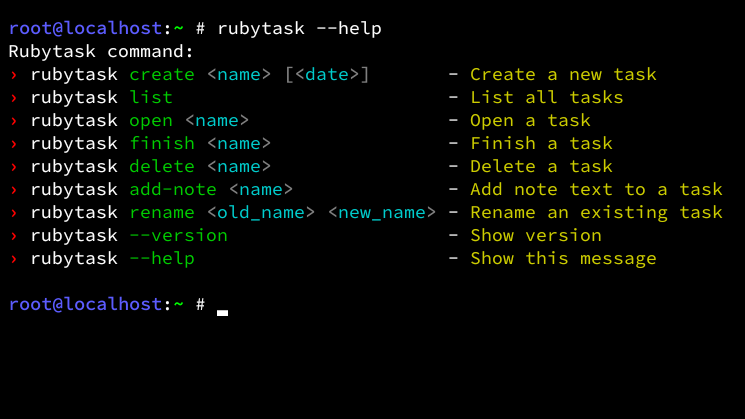
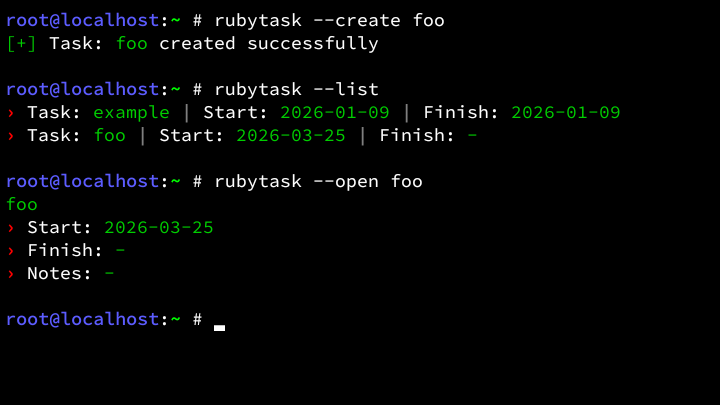
update: commands, preview, and install.sh

diff --git a/rubytask.rb b/rubytask.rb
@@ -19,60 +19,60 @@ FileUtils.mkdir_p(DATA_DIR)
 command = ARGV[0]
 
 case command
-    when 'create'
+    when '--create'
         name = ARGV[1]
         start_date = ARGV[2]
         if name
             Create.create_note(name, start_date)
         else
-            puts "#{R}[!] #{N}Usage: #{GG}#{Name} create #{DG}<#{CC}name#{DG}> [<#{CC}date#{DG}>]#{N}"
+            puts "#{R}[!] #{N}Usage: #{GG}#{Name} --create #{DG}<#{CC}name#{DG}> [<#{CC}date#{DG}>]#{N}"
         end
 
-    when 'list'
+    when '--list'
         List.list_notes
 
-    when 'open'
+    when '--open'
         name = ARGV[1]
         if name
             OpenNote.open_note(name)
         else
-            puts "#{R}[!] #{N}Usage: #{GG}#{Name} open #{DG}<#{CC}name#{DG}>#{N}"
+            puts "#{R}[!] #{N}Usage: #{GG}#{Name} --open #{DG}<#{CC}name#{DG}>#{N}"
         end
 
-    when 'finish'
+    when '--finish'
         name = ARGV[1]
         if name
             Finish.finish_note(name)
         else
-            puts "#{R}[!] #{N}Usage: #{GG}#{Name} finish #{DG}<#{CC}name#{DG}>#{N}"
+            puts "#{R}[!] #{N}Usage: #{GG}#{Name} --finish #{DG}<#{CC}name#{DG}>#{N}"
         end
 
-    when 'delete'
+    when '--delete'
         name = ARGV[1]
         if name
             Delete.delete_note(name)
         else
-            puts "#{R}[!] #{N}Usage: #{GG}#{Name} delete #{DG}<#{CC}name#{DG}>#{N}"
+            puts "#{R}[!] #{N}Usage: #{GG}#{Name} --delete #{DG}<#{CC}name#{DG}>#{N}"
         end
 
-    when 'add-note'
+    when '--add-note'
         name = ARGV[1]
         if name
             AddNote.add_note(name)
         else
-            puts "#{R}[!] #{N}Usage: #{GG}#{Name} add-note #{DG}<#{CC}name#{DG}>#{N}"
+            puts "#{R}[!] #{N}Usage: #{GG}#{Name} --add-note #{DG}<#{CC}name#{DG}>#{N}"
         end
 
-    when 'rename'
+    when '--rename'
         old_name = ARGV[1]
         new_name = ARGV[2]
         if old_name && new_name
             Rename.rename_note(old_name, new_name)
         else
-            puts "#{R}[!] #{N}Usage: #{GG}#{Name} rename #{DG}<#{CC}old_name#{DG}> <#{CC}new_name#{DG}>#{N}"
+            puts "#{R}[!] #{N}Usage: #{GG}#{Name} --rename #{DG}<#{CC}old_name#{DG}> <#{CC}new_name#{DG}>#{N}"
         end
 
-    when 'uwu'
+    when '--uwu'
         Uwu.run(5)
 
     when '--version'

diff --git a/utils/help.rb b/utils/help.rb
@@ -12,15 +12,15 @@ module Help
 
     def self.show_help
         puts "#{N}Rubytask command:"
-        puts "#{R}› #{N}#{Name} #{GG}create #{DG}<#{CC}name#{DG}> [<#{CC}date#{DG}>]       #{N}- #{YY}Create a new task#{N}"
-        puts "#{R}› #{N}#{Name} #{GG}list                         #{N}- #{YY}List all tasks#{N}"
-        puts "#{R}› #{N}#{Name} #{GG}open #{DG}<#{CC}name#{DG}>                  #{N}- #{YY}Open a task#{N}"
-        puts "#{R}› #{N}#{Name} #{GG}finish #{DG}<#{CC}name#{DG}>                #{N}- #{YY}Finish a task#{N}"
-        puts "#{R}› #{N}#{Name} #{GG}delete #{DG}<#{CC}name#{DG}>                #{N}- #{YY}Delete a task#{N}"
-        puts "#{R}› #{N}#{Name} #{GG}add-note #{DG}<#{CC}name#{DG}>              #{N}- #{YY}Add note text to a task#{N}"
-        puts "#{R}› #{N}#{Name} #{GG}rename #{DG}<#{CC}name#{DG}> <#{CC}new_name#{DG}>     #{N}- #{YY}Rename an existing task#{N}" 
-        puts "#{R}› #{N}#{Name} #{GG}--version                    #{N}- #{YY}Show version#{N}"
-        puts "#{R}› #{N}#{Name} #{GG}--help                       #{N}- #{YY}Show this message#{N}"
+        puts "    #{R}› #{N}#{Name} #{GG}--create #{DG}<#{CC}name#{DG}> [<#{CC}date#{DG}>]       #{N}- #{YY}Create a new task#{N}"
+        puts "    #{R}› #{N}#{Name} #{GG}--list                         #{N}- #{YY}List all tasks#{N}"
+        puts "    #{R}› #{N}#{Name} #{GG}--open #{DG}<#{CC}name#{DG}>                  #{N}- #{YY}Open a task#{N}"
+        puts "    #{R}› #{N}#{Name} #{GG}--finish #{DG}<#{CC}name#{DG}>                #{N}- #{YY}Finish a task#{N}"
+        puts "    #{R}› #{N}#{Name} #{GG}--delete #{DG}<#{CC}name#{DG}>                #{N}- #{YY}Delete a task#{N}"
+        puts "    #{R}› #{N}#{Name} #{GG}--add-note #{DG}<#{CC}name#{DG}>              #{N}- #{YY}Add note text to a task#{N}"
+        puts "    #{R}› #{N}#{Name} #{GG}--rename #{DG}<#{CC}name#{DG}> <#{CC}new_name#{DG}>     #{N}- #{YY}Rename an existing task#{N}" 
+        puts "    #{R}› #{N}#{Name} #{GG}--version                      #{N}- #{YY}Show version#{N}"
+        puts "    #{R}› #{N}#{Name} #{GG}--help                         #{N}- #{YY}Show this message#{N}"
     end
 end
 

diff --git a/README.md b/README.md
@@ -11,15 +11,11 @@ Rubytask is a lightweight CLI tool for managing tasks and notes with zero depend
 <details>
 <summary>Show Preview</summary>
 <br>
-<img src=".preview/preview_1.gif" width="500">
+<img src=".preview/preview_1.png" width="500">
 <br><br>
 <img src=".preview/preview_2.png" width="500">
 <br><br>
 <img src=".preview/preview_3.png" width="500">
-<br><br>
-<img src=".preview/preview_4.png" width="500">
-<br><br>
-<img src=".preview/preview_5.png" width="500">
 <br>
 </details>
 
@@ -50,6 +46,10 @@ Rubytask is a lightweight CLI tool for managing tasks and notes with zero depend
 		<td>Kali</td>
 		<td>Rolling</td>
 	</tr>
+    <tr>
+        <td>Alpine</td>
+        <td>3.23</td>
+    </tr>
 	<tr>
 		<td>Termux</td>
 		<td>0.118.3</td>
@@ -66,13 +66,13 @@ chmod +x install.sh
 
 ## Usage
 ``` bash
-rubytask create <name> [<date>]
-rubytask list
-rubytask open <name>
-rubytask finish <name>
-rubytask delete <name>
-rubytask add-note <name>
-rubytask rename <name> <new_name>
+rubytask --create <name> [<date>]
+rubytask --list
+rubytask --open <name>
+rubytask --finish <name>
+rubytask --delete <name>
+rubytask --add-note <name>
+rubytask --rename <name> <new_name>
 rubytask --help
 rubytask --version
 ```
